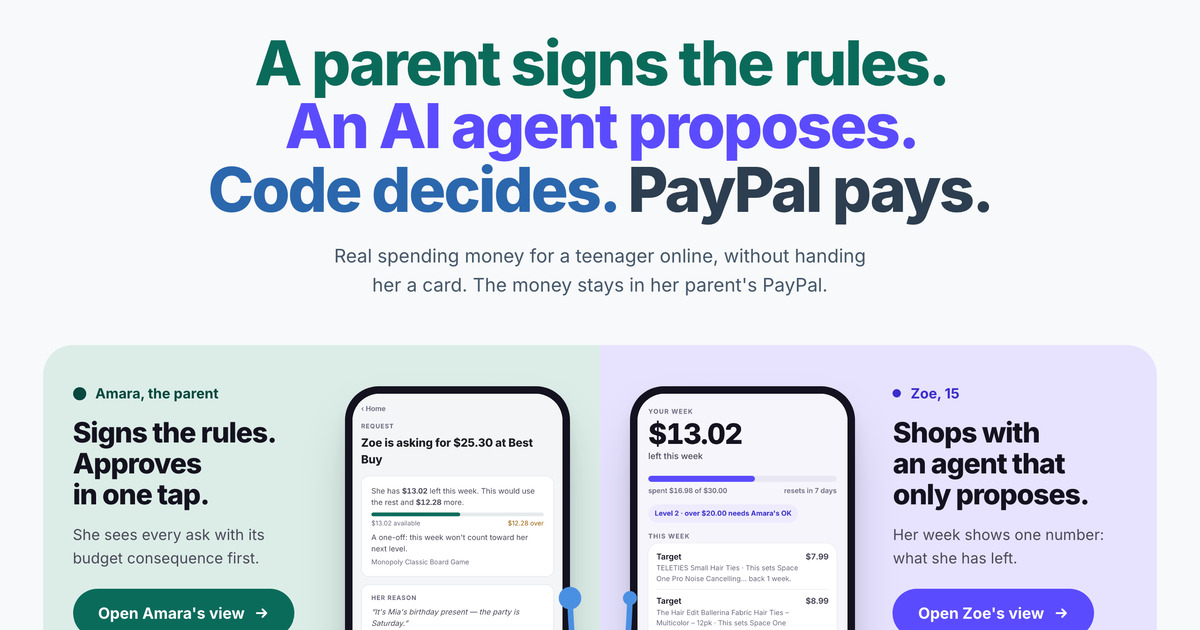
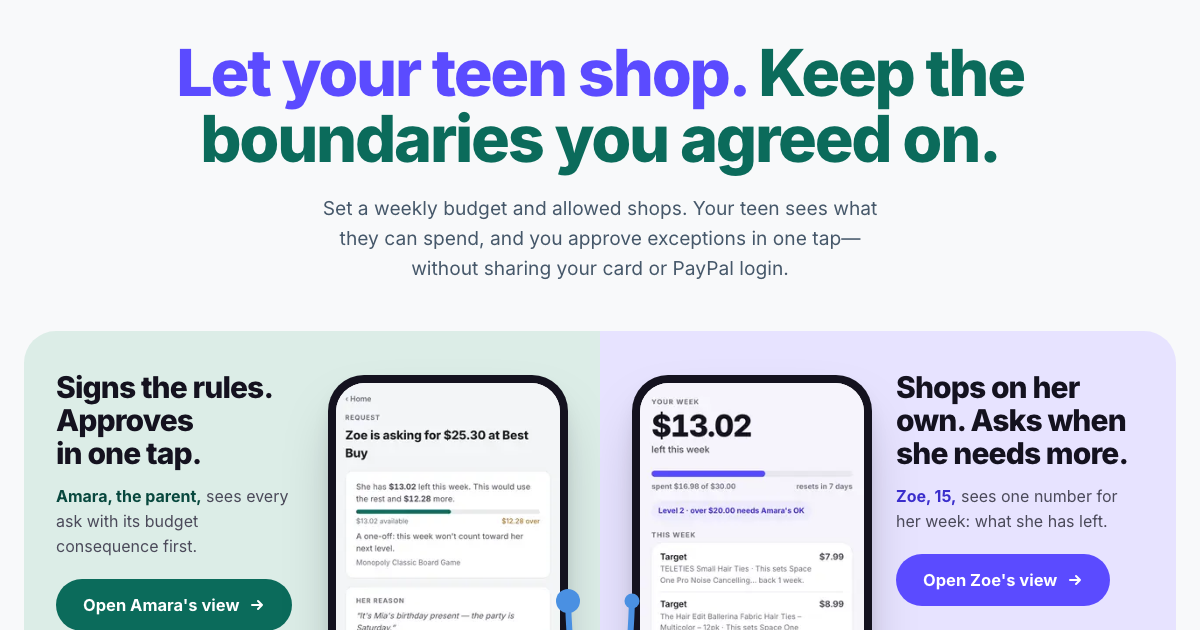
docs: Zoe's hero heading leads with her experience; a share image that matches the page
"Shops on her own. Asks when she needs more." mirrors Amara's "Signs the
rules. Approves in one tap." The agent stays explained under Meet the agents.
The share image is recaptured from the live hero (1200x630): the old one still
showed the technical thesis and "The money stays in her parent's PayPal".

Changed region(s): [[0.1233, 0.0603, 0.8633, 0.4825], [0.0, 0.5127, 0.5242, 1.0], [0.5242, 0.573, 0.9558, 1.0]]

diff --git a/src/app/page.tsx b/src/app/page.tsx
@@ -25,7 +25,7 @@ export const metadata: Metadata = {
   description: DESCRIPTION,
   openGraph: {
     title: TITLE, description: DESCRIPTION, type: "website", siteName: "Tether",
-    images: [{ url: "/og-landing.png", width: 1200, height: 630, alt: "Tether: a parent signs the rules, an AI agent proposes, code decides, PayPal pays. Amara's and Zoe's phones side by side." }],
+    images: [{ url: "/og-landing.png", width: 1200, height: 630, alt: "Tether: Let your teen shop. Keep the boundaries you agreed on. Amara's and Zoe's phones side by side." }],
   },
   twitter: { card: "summary_large_image", title: TITLE, description: DESCRIPTION, images: ["/og-landing.png"] },
 };

diff --git a/src/app/landing/Hero.tsx b/src/app/landing/Hero.tsx
@@ -25,7 +25,7 @@ export function Hero({ links }: { links: DemoLinks }) {
         <div className="l-side l-side--teen">
           <Phone src="zoe-week" width={240} eager alt="Zoe's phone: $13.02 left this week, Level 2, her Best Buy ask waiting for Amara." />
           <div className="l-side__text">
-            <h2>Shops with an agent that only proposes.</h2>
+            <h2>Shops on her own. Asks when she needs more.</h2>
             <p><b>Zoe, 15,</b> sees one number for her week: what she has left.</p>
             {links && <a className="l-btn l-btn--teen" href={links.zoe}>Open Zoe&apos;s view <Arrow /></a>}
           </div>
